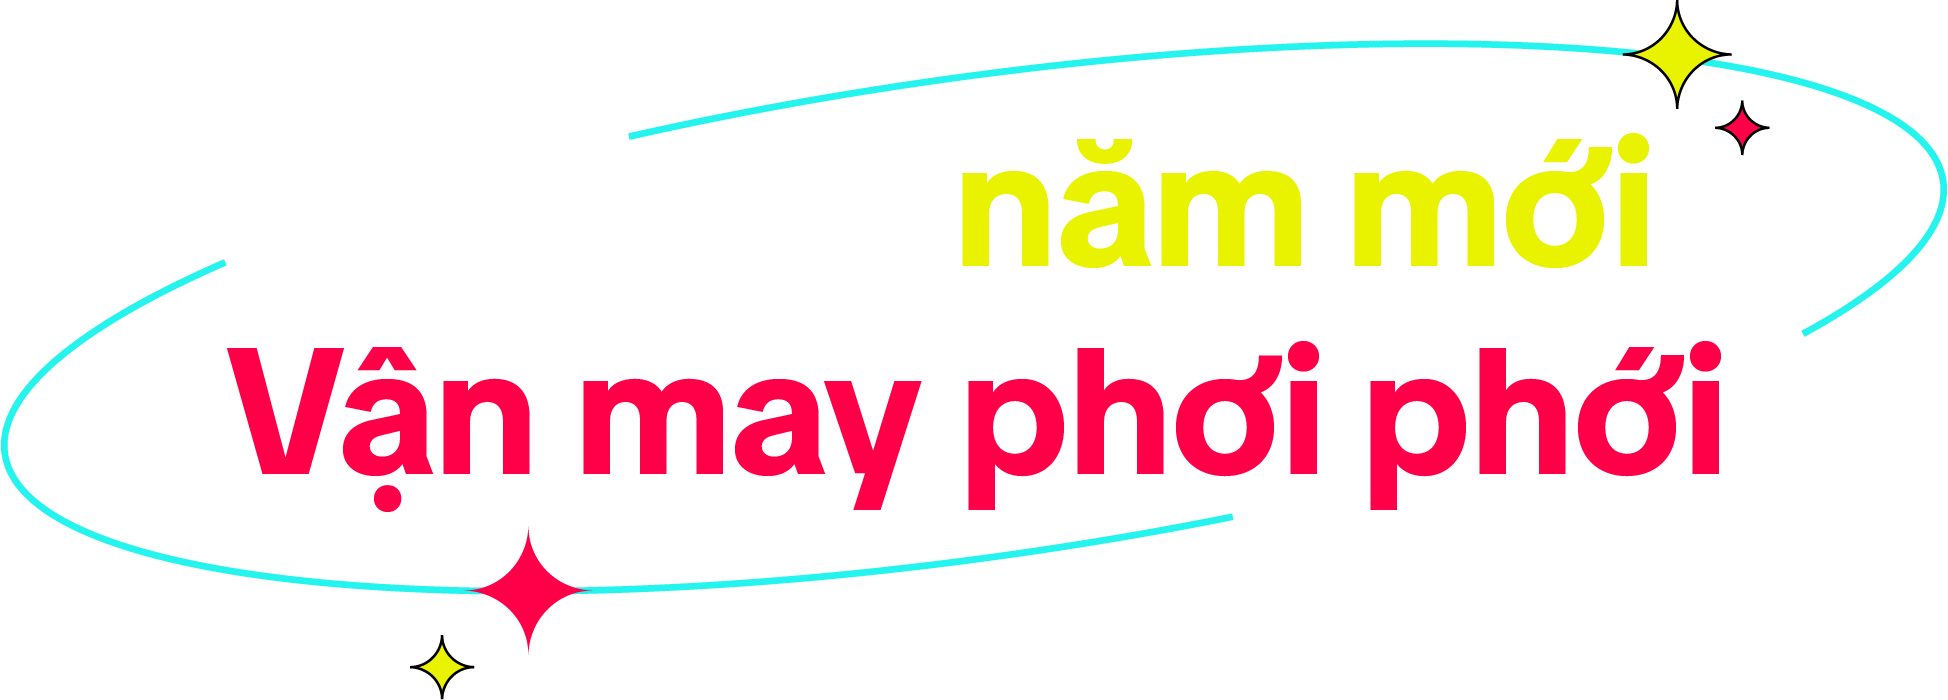
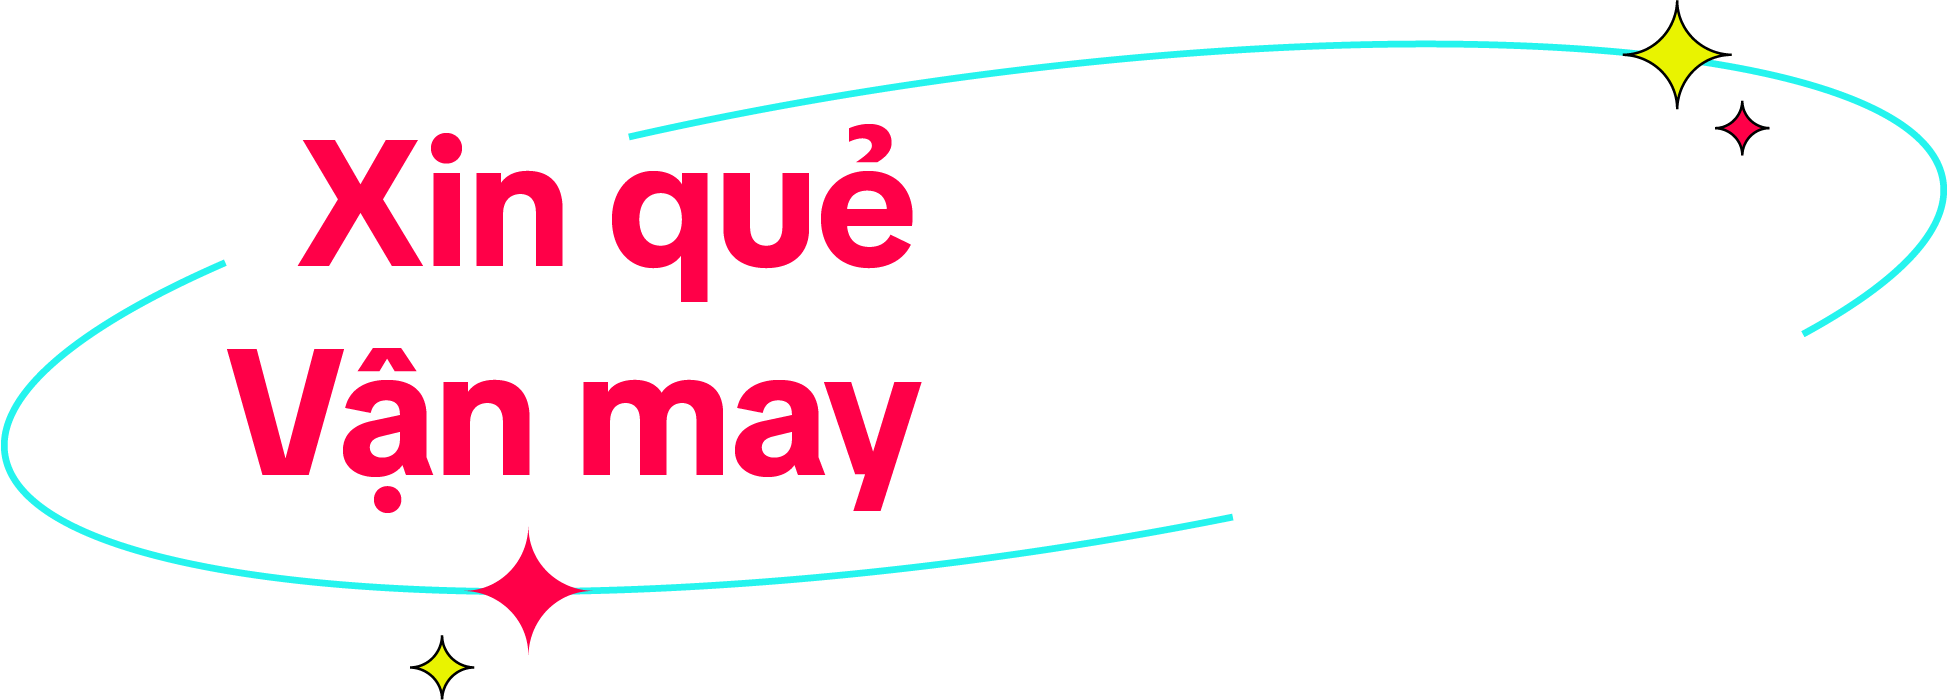
new version

diff --git a/src/modules/Game.tsx b/src/modules/Game.tsx
@@ -41,7 +41,7 @@ const STUFFS = [
 ];
 
 const NAME_LOGO = [702, 185];
-const TITLE_BANNERS = [3974, 1459];
+const TITLE_BANNERS = [1948, 700];
 const RULE_BANNERS = [2318, 1117];
 const LAST_BANNERS = [3974, 1622];
 const NOT_REGISTERED_BANNERS = [2986, 1104];
@@ -359,7 +359,7 @@ function getGameConfig(): GameConfig {
   return SIZES.get('<=1366') as GameConfig;
 }
 
-function Cup({ onShakeEnd }: { onShakeEnd: () => void }) {
+function Cup({ shakable = false, onShakeEnd }: { shakable?: boolean,onShakeEnd: () => void }) {
   const gameData = useContext(GameContext);
   const dispatch = useContext(GameDispatchContext);
   const screen = gameData.screen;
@@ -523,11 +523,11 @@ function Cup({ onShakeEnd }: { onShakeEnd: () => void }) {
       <Layer
         imageSmoothingEnabled
         onTap={() => {
-          shake(true);
+          shakable && shake(true);
         }}
         onClick={() => {
           // console.log(gameData);
-          shake(true);
+          shakable && shake(true);
         }}
       >
         <Image image={imageBack} x={config.x} y={topY} width={width} height={upperHeight} />
@@ -769,7 +769,7 @@ function TitleBanner() {
   const screen = gameData.screen;
   const height = gameData.titleBannerHeight;
   const width = (height * TITLE_BANNERS[0]) / TITLE_BANNERS[1];
-  const [image] = useImage('/assets/tiktok-game/full-title.desk.png');
+  const [image] = useImage('/assets/materials/title.png');
 
   const { height: pathHeight, rawHeight: rawPathHeight } = getPathSize(
     gameData.layout as Layout,
@@ -1253,7 +1253,7 @@ function ActionGroup({ isRegistered }: { isRegistered: boolean }) {
         y={y}
         w={buttonWidth}
         h={buttonHeight}
-        src="/assets/tiktok-game/bi-kip-xin-que.desk.png"
+        src="/assets/materials/bi-kip-xin-que.png"
         onClick={() => {
           dispatch({
             ...gameData,
@@ -1267,7 +1267,7 @@ function ActionGroup({ isRegistered }: { isRegistered: boolean }) {
         y={y}
         w={buttonWidth}
         h={buttonHeight}
-        src="/assets/tiktok-game/xin-que.desk.png"
+        src="/assets/materials/xin-que.png"
         onClick={() => {
           const _isRegistered = isRegistered || !!Cookies.get('tethut2025email');
           if (_isRegistered) {
@@ -1420,7 +1420,9 @@ function generateScreenSize(){
   const gcd = findGCD(currentWidth, currentHeight);
   const w = currentWidth / gcd;
   const h = Math.ceil(9 * w / 16);
-  const screenHeight = (orientation === "landscape" ? (isWeird ? (currentWidth * h / w) : currentWidth * 9 / 16) : currentWidth * 16 / 9);
+  const screenHeight = (orientation === "landscape" ? (isWeird ? (currentWidth * h / w) : currentWidth * 9 / 16) : currentHeight / 2);
+
+  console.log(currentWidth, screenHeight);
 
   return {
     width: currentWidth,
@@ -1581,6 +1583,8 @@ function GameInner({ isRegistered, userData }: { isRegistered: boolean; userData
   const pathY = (pathSize.width - pathSize.rawWidth) / 2;
   const isWeird = 2 * window.innerWidth / window.innerHeight  >= 21 / 9;
 
+  console.log(screen);  
+
   return (
     <div
       id="game"
@@ -1651,7 +1655,7 @@ function GameInner({ isRegistered, userData }: { isRegistered: boolean; userData
       ) : null}
       <Stage width={screen.width} height={screen.height}>
         <Layer id="background" imageSmoothingEnabled>
-          {currentStep === 0 || currentStep === 1 || currentStep === 3 || currentStep === 4 ? (
+          {/* {currentStep === 0 || currentStep === 1 || currentStep === 3 || currentStep === 4 ? (
             <Phone />
           ) : null}
           <Path />
@@ -1739,10 +1743,10 @@ function GameInner({ isRegistered, userData }: { isRegistered: boolean; userData
             y={fireworks[2].y}
             width={fireworks[2].w}
             height={fireworks[2].h}
-          />
+          /> */}
         </Layer>
         <Layer imageSmoothingEnabled>
-          <TiktokLogo />
+          {/* <TiktokLogo /> */}
           {currentStep === 3 ? <LastBanner /> : null}
           {currentStep === 0 || currentStep == 2 ? <TitleBanner /> : null}
           {currentStep === 1 ? (
@@ -1768,16 +1772,15 @@ function GameInner({ isRegistered, userData }: { isRegistered: boolean; userData
             />
           ) : null}
           {currentStep === 0 ? <ActionGroup isRegistered={isRegistered} /> : null}
-          <NameLogo />
+          {/* <NameLogo /> */}
           {/* <Mask /> */}
         </Layer>
-        {currentStep === 2 ? (
-          <Cup
-            onShakeEnd={() => {
-              setShowResut(true);
-            }}
-          />
-        ) : null}
+        <Cup
+          shakable={currentStep === 2}
+          onShakeEnd={() => {
+            setShowResut(true);
+          }}
+        />
       </Stage>
       {showResult && !showDropInfo ? (
         <div className="absolute top-0 left-0 w-full h-full z-10">
